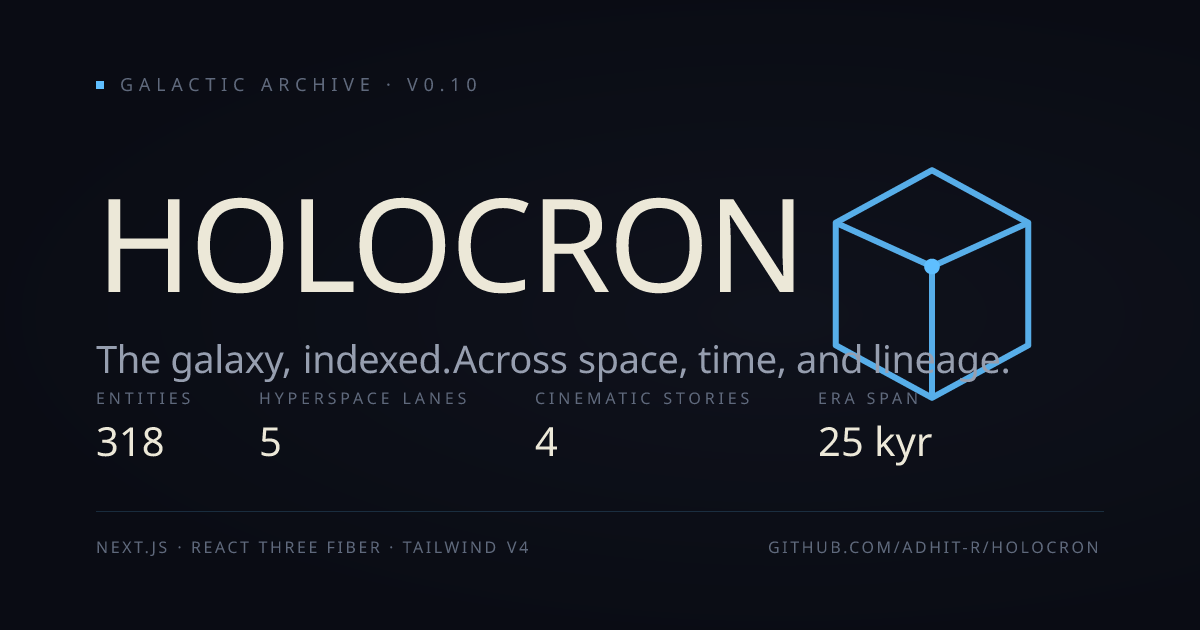
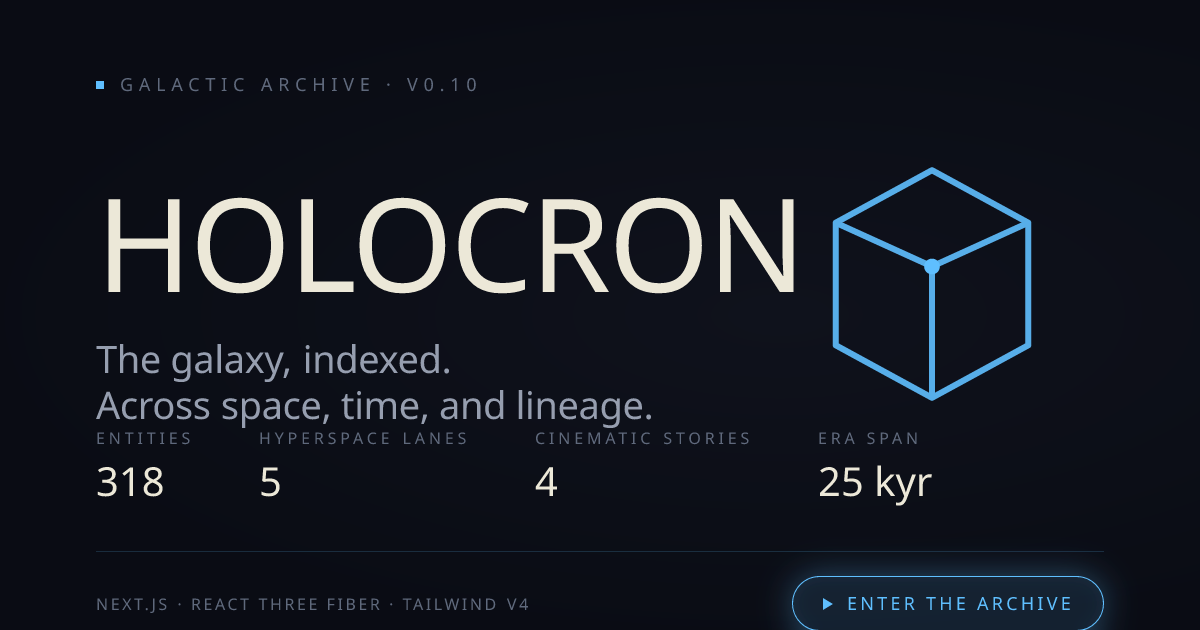
og: refresh card with CTA pill + tighter copy per validator feedback
opengraph.xyz inspector flagged three issues with the v0.10 card:
- title was 40 chars (recommends 50-60)
- description was 213 chars (recommends 110-160)
- card was missing a visible call-to-action

Fixes:
- Title: "Holocron — A 3D Star Wars universe explorer, in your browser" (60)
- Description trimmed to 131 chars, leads with the unified-selection
  story instead of the tech stack
- Card now shows a glowing "▶ Enter the archive" pill on the bottom
  right, replacing the redundant repo URL (visible in the share-link
  domain anyway)
- Spacer fix: Satori partially honors marginTop:auto, so use an
  explicit flex:1 spacer between tagline and stats
- Triangle glyph rendered as inline SVG since the bundled font lacks
  most Unicode triangle codepoints

Architecture: moved card.tsx out of app/ to scripts/og/ so Next.js
no longer auto-routes it (which would re-introduce the extension-less
og:image URL bug). public/og.png stays committed as the canonical
static asset; scripts/og/README.md documents the regen procedure.

diff --git a/scripts/og/card.tsx b/scripts/og/card.tsx
@@ -1,0 +1,247 @@
+import { ImageResponse } from "next/og";
+
+/**
+ * Open Graph card. Rendered at build time (output: 'export') and served
+ * statically. Twitter, Slack, Discord, iMessage, Reddit, X all read this
+ * when the URL is shared. 1200×630 is the standard size.
+ *
+ * Visual: full-bleed tinted-near-black bg with a faint isometric-cube
+ * watermark + sector-grid lines, the Holocron wordmark + tagline + the
+ * featured stats row + a faint "by Adhithya Rajasekaran" credit.
+ */
+
+export const runtime = "nodejs";
+export const dynamic = "force-static";
+export const revalidate = false;
+
+export const alt = "Holocron — A 3D Star Wars universe explorer. Galaxy, timeline, lineage, datapad — one selection drives all four.";
+export const size = { width: 1200, height: 630 };
+export const contentType = "image/png";
+
+const BG = "rgb(15, 18, 28)"; // oklch(0.13 0.005 240) approximation
+const BG_DEEP = "rgb(10, 12, 20)";
+const ACCENT = "rgb(95, 191, 255)"; // oklch(0.78 0.13 235)
+const ACCENT_FAINT = "rgba(95, 191, 255, 0.18)";
+const FG = "rgb(236, 232, 216)"; // oklch(0.94 0.005 80)
+const FG_MUTED = "rgb(150, 158, 175)";
+const FG_DIM = "rgb(95, 105, 124)";
+
+export default async function Image() {
+  return new ImageResponse(
+    (
+      <div
+        style={{
+          width: "100%",
+          height: "100%",
+          display: "flex",
+          flexDirection: "column",
+          background: `radial-gradient(ellipse at 65% 50%, ${BG} 0%, ${BG_DEEP} 75%)`,
+          padding: "72px 96px",
+          fontFamily: "Inter, system-ui, sans-serif",
+          position: "relative"
+        }}
+      >
+        {/* Sector grid overlay */}
+        <div
+          style={{
+            position: "absolute",
+            inset: 0,
+            backgroundImage: `
+              linear-gradient(${ACCENT_FAINT} 1px, transparent 1px),
+              linear-gradient(90deg, ${ACCENT_FAINT} 1px, transparent 1px)
+            `,
+            backgroundSize: "120px 120px",
+            opacity: 0.25
+          }}
+        />
+
+        {/* Holocron cube glyph (large, on the right) */}
+        <div
+          style={{
+            position: "absolute",
+            top: 144,
+            right: 128,
+            display: "flex"
+          }}
+        >
+          <svg viewBox="0 0 32 32" width="280" height="280">
+            <g
+              stroke={ACCENT}
+              strokeWidth="0.7"
+              fill="none"
+              strokeLinejoin="round"
+              opacity="0.9"
+            >
+              <path d="M16 3 L27 9 L27 23 L16 29 L5 23 L5 9 Z" />
+              <path d="M5 9 L16 14 L27 9" />
+              <path d="M16 14 L16 29" />
+            </g>
+            <circle cx="16" cy="14" r="0.9" fill={ACCENT} />
+          </svg>
+        </div>
+
+        {/* Top label row */}
+        <div
+          style={{
+            display: "flex",
+            alignItems: "center",
+            gap: 16,
+            color: FG_DIM,
+            fontSize: 18,
+            letterSpacing: "0.32em",
+            textTransform: "uppercase",
+            fontFamily: "ui-monospace, monospace",
+            position: "relative"
+          }}
+        >
+          <div
+            style={{
+              width: 8,
+              height: 8,
+              background: ACCENT,
+              display: "flex"
+            }}
+          />
+          <span>Galactic archive · v0.10</span>
+        </div>
+
+        {/* Wordmark + tagline */}
+        <div
+          style={{
+            display: "flex",
+            flexDirection: "column",
+            gap: 28,
+            marginTop: 80,
+            position: "relative"
+          }}
+        >
+          <h1
+            style={{
+              color: FG,
+              fontSize: 130,
+              fontWeight: 600,
+              letterSpacing: "-0.02em",
+              lineHeight: 1,
+              margin: 0,
+              display: "flex"
+            }}
+          >
+            HOLOCRON
+          </h1>
+          <div
+            style={{
+              color: FG_MUTED,
+              fontSize: 38,
+              fontWeight: 400,
+              letterSpacing: "-0.01em",
+              lineHeight: 1.2,
+              margin: 0,
+              maxWidth: 760,
+              display: "flex",
+              flexDirection: "column"
+            }}
+          >
+            <span style={{ display: "flex" }}>The galaxy, indexed.</span>
+            <span style={{ display: "flex" }}>Across space, time, and lineage.</span>
+          </div>
+        </div>
+
+        {/* Spacer — Satori doesn't reliably honor marginTop:auto on absolutely
+            positioned roots, so we use an explicit flex:1 spacer instead. */}
+        <div style={{ flex: 1, display: "flex" }} />
+
+        {/* Stats row at bottom */}
+        <div
+          style={{
+            display: "flex",
+            gap: 64,
+            position: "relative"
+          }}
+        >
+          {[
+            { label: "Entities", value: "318" },
+            { label: "Hyperspace lanes", value: "5" },
+            { label: "Cinematic stories", value: "4" },
+            { label: "Era span", value: "25 kyr" }
+          ].map((s) => (
+            <div
+              key={s.label}
+              style={{ display: "flex", flexDirection: "column", gap: 4 }}
+            >
+              <div
+                style={{
+                  color: FG_DIM,
+                  fontSize: 16,
+                  letterSpacing: "0.24em",
+                  textTransform: "uppercase",
+                  fontFamily: "ui-monospace, monospace",
+                  display: "flex"
+                }}
+              >
+                {s.label}
+              </div>
+              <div
+                style={{
+                  color: FG,
+                  fontSize: 40,
+                  fontFamily: "ui-monospace, monospace",
+                  fontWeight: 500,
+                  display: "flex"
+                }}
+              >
+                {s.value}
+              </div>
+            </div>
+          ))}
+        </div>
+
+        {/* Footer credit + CTA */}
+        <div
+          style={{
+            display: "flex",
+            justifyContent: "space-between",
+            alignItems: "center",
+            marginTop: 44,
+            paddingTop: 24,
+            borderTop: `1px solid ${ACCENT_FAINT}`,
+            color: FG_DIM,
+            fontSize: 16,
+            letterSpacing: "0.16em",
+            textTransform: "uppercase",
+            fontFamily: "ui-monospace, monospace",
+            position: "relative"
+          }}
+        >
+          <span>Next.js · React Three Fiber · Tailwind v4</span>
+          {/* Glowing CTA pill — primary call to action on the card */}
+          <div
+            style={{
+              display: "flex",
+              alignItems: "center",
+              gap: 12,
+              padding: "14px 28px",
+              border: `1px solid ${ACCENT}`,
+              borderRadius: 999,
+              background: "rgba(95, 191, 255, 0.12)",
+              boxShadow: `0 0 32px rgba(95, 191, 255, 0.35), inset 0 0 16px rgba(95, 191, 255, 0.08)`,
+              color: ACCENT,
+              fontSize: 18,
+              letterSpacing: "0.18em",
+              fontWeight: 600
+            }}
+          >
+            {/* Custom triangle glyph — Satori's bundled font doesn't support
+                Unicode ▷ (U+25B7), so render the play-arrow as inline SVG. */}
+            <svg width="14" height="16" viewBox="0 0 14 16" style={{ display: "flex" }}>
+              <path d="M2 2 L12 8 L2 14 Z" fill={ACCENT} />
+            </svg>
+            <span style={{ display: "flex" }}>Enter the archive</span>
+          </div>
+        </div>
+      </div>
+    ),
+    {
+      ...size
+    }
+  );
+}

diff --git a/app/layout.tsx b/app/layout.tsx
@@ -5,9 +5,9 @@ import "./globals.css";
 
 const SITE_ORIGIN = "https://adhit-r.github.io";
 const SITE_URL = `${SITE_ORIGIN}/holocron`;
-const TITLE = "Holocron — A Star Wars universe explorer";
+const TITLE = "Holocron — A 3D Star Wars universe explorer, in your browser";
 const DESCRIPTION =
-  "A 3D Star Wars universe explorer. Galaxy, timeline, Force-lineage, and datapad — one selection drives all four. Built with Next.js, React Three Fiber, and Tailwind. Canon and Legends, real public data, no backend.";
+  "Galaxy, timeline, Force-lineage, datapad — pick anything, see it everywhere. 25,000 years of canon + Legends, fully 3D, no backend.";
 
 export const metadata: Metadata = {
   metadataBase: new URL(SITE_ORIGIN),

diff --git a/scripts/og/README.md b/scripts/og/README.md
@@ -1,0 +1,48 @@
+# OG image regeneration
+
+The Open Graph card lives at `public/og.png` as a committed static asset
+(1200×630, image/png). This avoids two GH Pages serving issues that
+broke social previews when the OG image was a Next.js dynamic route:
+
+1. The auto-generated `/opengraph-image` URL has no file extension →
+   GH Pages serves `application/octet-stream`, which Facebook/LinkedIn/
+   Discord/Slack reject as a non-image.
+2. Next.js's file-convention OG image override-injects the
+   `og:image` meta tag at that bad URL, ignoring any manual override
+   in `metadata.openGraph.images`.
+
+So we render the PNG once and commit it. To update the card:
+
+```bash
+# 1. Restore the dynamic route temporarily
+cp scripts/og/card.tsx app/opengraph-image.tsx
+
+# 2. Edit content (title label, stats, CTA copy, etc.) in either file
+#    — keep them in sync.
+
+# 3. Build (dynamic route renders the PNG into out/)
+NEXT_PUBLIC_BASE_PATH=/holocron npm run build
+
+# 4. Copy the generated PNG over the committed static asset
+cp out/opengraph-image public/og.png
+
+# 5. Remove the dynamic route so it doesn't override the meta tag
+rm app/opengraph-image.tsx
+
+# 6. Commit public/og.png (and scripts/og/card.tsx if you edited it)
+git add public/og.png scripts/og/card.tsx
+git commit -m "og: refresh card"
+```
+
+Every visible string on the card lives in `card.tsx` — wordmark, tagline,
+v-label, the four stats, the CTA pill, and the bottom credits.
+
+Layout notes (Satori quirks worth knowing):
+- `marginTop: "auto"` does NOT reliably push children to the bottom of a
+  flex column — use an explicit `<div style={{ flex: 1 }} />` spacer.
+- All text-bearing elements need an explicit `display: "flex"` parent or
+  Satori throws "Expected `display: flex` on the parent."
+- Use `<span>` siblings inside a flex-column `<div>` instead of `<br />`
+  for multi-line text.
+- The bundled font does not include most decorative Unicode glyphs
+  (▷ ▶ ★ → etc.) — render those as inline SVG instead.
